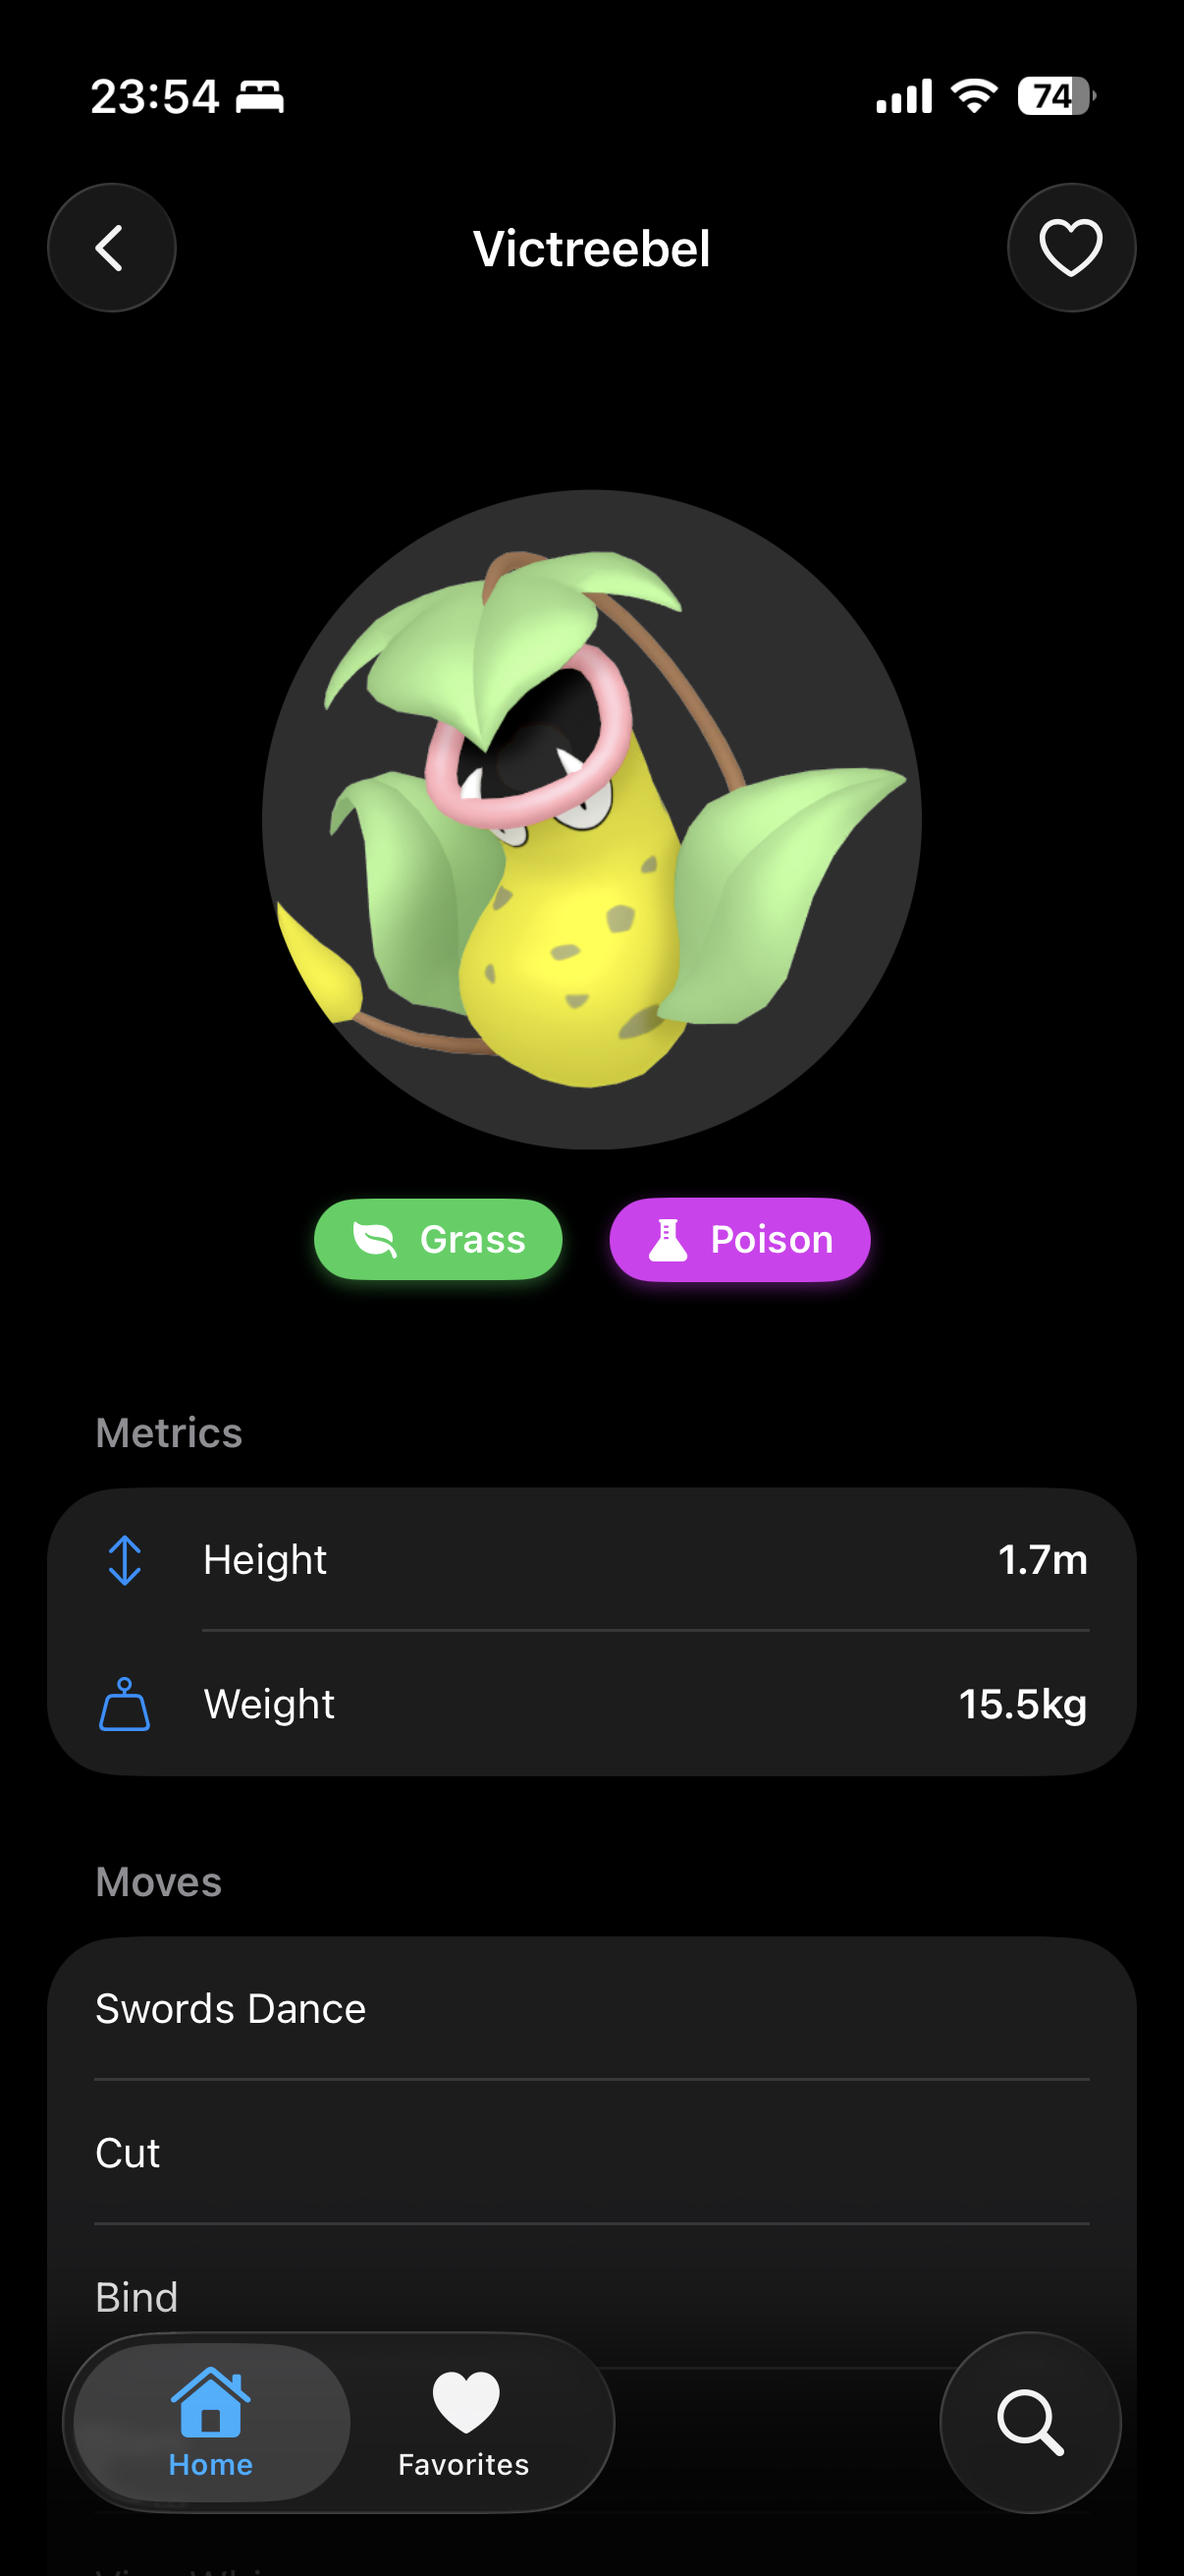
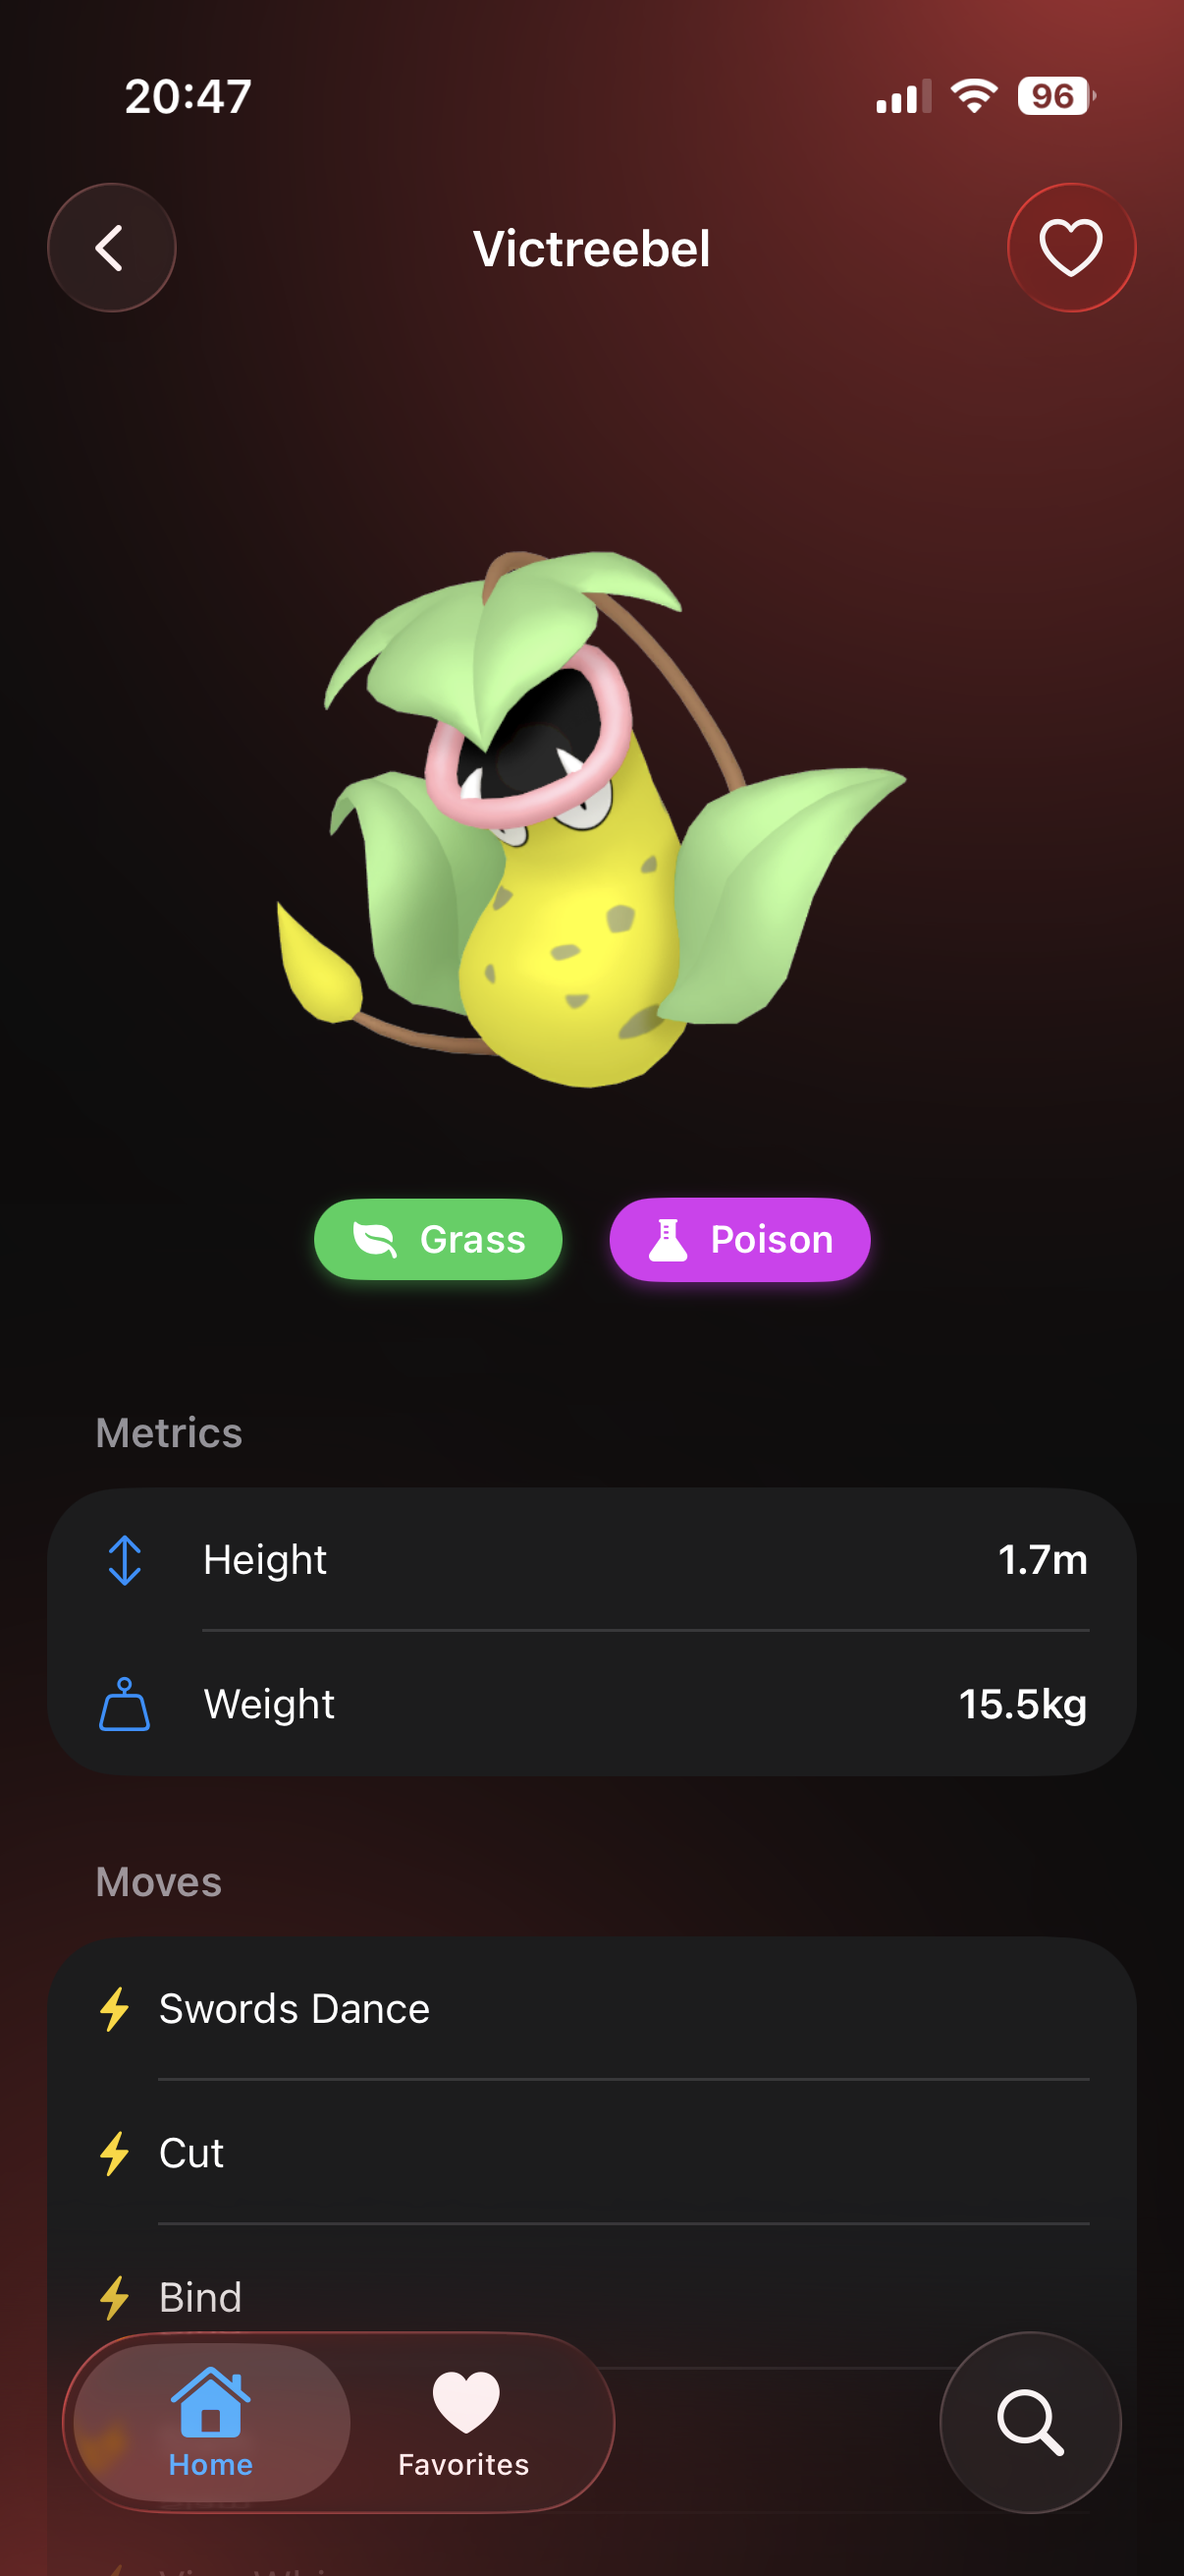
feat: add new view modifiers for list cell properties and pokedex background; enhance UI in various screens

diff --git a/PokeBase/Utils/View+PokedexBackground.swift b/PokeBase/Utils/View+PokedexBackground.swift
@@ -1,0 +1,61 @@
+//
+//  View+PokedexBackground.swift
+//  PokeBase
+//
+//  Created by Filipe Fernandes on 01/06/26.
+//
+
+import Foundation
+import SwiftUI
+
+struct PokedexBackgroundModifier: ViewModifier {
+    @Environment(\.colorScheme) var colorScheme
+    
+    func body(content: Content) -> some View {
+        ZStack {
+            (colorScheme == .dark ? Color(white: 0.05) : Color(white: 0.98))
+                .ignoresSafeArea()
+            
+            GeometryReader { geometry in
+                let side = geometry.size.width
+                
+                ZStack {
+                    Circle()
+                        .fill(RadialGradient(gradient: Gradient(colors: [Color.red.opacity(colorScheme == .dark ? 0.7 : 0.9), Color.red.opacity(0.2), .clear]), center: .center, startRadius: 0, endRadius: side * 0.4))
+                        .frame(width: side * 1.1, height: side * 1.1)
+                        .position(x: side * 0.95, y: geometry.size.height * -0.05)
+                        .blur(radius: 35)
+                    
+                    Circle()
+                        .fill(RadialGradient(gradient: Gradient(colors: [Color.red.opacity(colorScheme == .dark ? 0.5 : 0.8), .clear]), center: .center, startRadius: 0, endRadius: side * 0.9))
+                        .frame(width: side * 1.8, height: side * 1.8)
+                        .position(x: side * 0.85, y: geometry.size.height * 0.05)
+                        .blur(radius: 80)
+                }
+                
+                ZStack {
+                    Circle()
+                        .fill(RadialGradient(gradient: Gradient(colors: [Color.red.opacity(colorScheme == .dark ? 0.6 : 0.8), Color.red.opacity(0.1), .clear]), center: .center, startRadius: 0, endRadius: side * 0.35))
+                        .frame(width: side * 1.0, height: side * 1.0)
+                        .position(x: side * 0.05, y: geometry.size.height * 1.05)
+                        .blur(radius: 40)
+                    
+                    Circle()
+                        .fill(RadialGradient(gradient: Gradient(colors: [Color.red.opacity(colorScheme == .dark ? 0.4 : 0.7), .clear]), center: .center, startRadius: 0, endRadius: side * 0.8))
+                        .frame(width: side * 1.6, height: side * 1.6)
+                        .position(x: side * 0.15, y: geometry.size.height * 0.95)
+                        .blur(radius: 90)
+                }
+            }
+            .ignoresSafeArea()
+            
+            content
+        }
+    }
+}
+
+extension View {
+    func pokedexBackground() -> some View {
+        self.modifier(PokedexBackgroundModifier())
+    }
+}

diff --git a/PokeBase/Views/Screens/PokemonListView.swift b/PokeBase/Views/Screens/PokemonListView.swift
@@ -11,6 +11,8 @@ struct PokemonListView: View {
     @Environment(PokemonStore.self) private var store
     @Environment(FavoritesService.self) private var favoritesService
     
+    @Namespace private var animationSpace
+    
     var body: some View {
         NavigationStack {
             Group {
@@ -38,6 +40,8 @@ struct PokemonListView: View {
                             NavigationLink(value: pokemon) {
                                 PokemonCellView(pokemon: pokemon)
                             }
+                            .listCellProps()
+                            .matchedTransitionSource(id: pokemon.id, in: animationSpace)
                             .swipeActions(edge: .leading, allowsFullSwipe: true) {
                                 let isFavorite = favoritesService.isFavorite(id: pokemon.id)
                                 
@@ -55,12 +59,20 @@ struct PokemonListView: View {
                             }
                         }
                     }
+                    .listStyle(.plain)
+                    .scrollContentBackground(.hidden)
+                    .background(Color.clear)
+                    .refreshable {
+                        await store.fetchAllPokemon()
+                    }
                 }
             }
+            .pokedexBackground()
             .navigationTitle("Pokémons")
             .navigationDestination(for: Pokemon.self) { selectedPokemon in
                 PokemonDetailView(pokemon: selectedPokemon)
                     .id(selectedPokemon.id)
+                    .navigationTransition(.zoom(sourceID: selectedPokemon.id, in: animationSpace))
             }
             .task {
                 await store.fetchAllPokemon()

diff --git a/PokeBase/Views/Screens/PokemonSearchView.swift b/PokeBase/Views/Screens/PokemonSearchView.swift
@@ -12,6 +12,8 @@ struct PokemonSearchView: View {
     @Environment(FavoritesService.self) private var favoritesService
     @State private var viewModel = PokemonSearchViewModel()
     
+    @Namespace private var animationSpace
+    
     var body: some View {
         NavigationStack {
         Group {
@@ -37,10 +39,12 @@ struct PokemonSearchView: View {
                 renderSuccess()
             }
         }
+        .pokedexBackground()
         .navigationTitle("Search Pokémons")
         .navigationDestination(for: Pokemon.self) { pokemon in
             PokemonDetailView(pokemon: pokemon)
                 .id(pokemon.id)
+                .navigationTransition(.zoom(sourceID: pokemon.id, in: animationSpace))
         }
         .animation(.default, value: viewModel.searchResults)
         .animation(.default, value: viewModel.searchText.isEmpty)
@@ -66,6 +70,8 @@ struct PokemonSearchView: View {
                     NavigationLink(value: pokemon) {
                         PokemonCellView(pokemon: pokemon)
                     }
+                    .listCellProps()
+                    .matchedTransitionSource(id: pokemon.id, in: animationSpace)
                     .swipeActions(edge: .leading, allowsFullSwipe: true) {
                         let isFavorite = favoritesService.isFavorite(id: pokemon.id)
                         
@@ -82,6 +88,9 @@ struct PokemonSearchView: View {
                         .tint(isFavorite ? .red : .orange)
                     }
                 }
+                .listStyle(.plain)
+                .scrollContentBackground(.hidden)
+                .background(Color.clear)
             }
         }
     }

diff --git a/PokeBase/Views/Screens/FavoritePokemonListView.swift b/PokeBase/Views/Screens/FavoritePokemonListView.swift
@@ -12,6 +12,8 @@ struct FavoritePokemonListView: View {
     @Environment(FavoritesService.self) private var favoritesService
     @Environment(NavigationManager.self) private var navManager
     
+    @Namespace private var animationSpace
+    
     @State private var selection = Set<Int>()
     @State private var editingMode = EditMode.inactive
     
@@ -41,15 +43,22 @@ struct FavoritePokemonListView: View {
                             NavigationLink(value: pokemon) {
                                 PokemonCellView(pokemon: pokemon)
                             }
+                            .listCellProps()
+                            .matchedTransitionSource(id: pokemon.id, in: animationSpace)
                         }
                         .onDelete(perform: favoritesService.removeFavorites)
                     }
-                    
+                    .listStyle(.plain)
+                    .scrollContentBackground(.hidden)
+                    .background(.clear)
                 }
             }
+            .pokedexBackground()
             .navigationTitle("Favorites")
             .navigationDestination(for: Pokemon.self) { pokemon in
                 PokemonDetailView(pokemon: pokemon)
+                    .id(pokemon.id)
+                    .navigationTransition(.zoom(sourceID: pokemon.id, in: animationSpace))
             }
             .toolbar {
                 ToolbarItem(placement: .topBarTrailing) {

diff --git a/PokeBase/Utils/View+ListCellProps.swift b/PokeBase/Utils/View+ListCellProps.swift
@@ -1,0 +1,26 @@
+//
+//  View+ListCellProps.swift
+//  PokeBase
+//
+//  Created by Filipe Fernandes on 01/06/26.
+//
+
+import Foundation
+import SwiftUI
+
+struct ListCellPropsModifier: ViewModifier {
+    func body(content: Content) -> some View {
+        content
+            .padding()
+            .glassEffect(.regular, in: .rect(cornerRadius: 20))
+            .listRowBackground(Color.clear)
+            .listRowSeparator(.hidden)
+            .listRowInsets(EdgeInsets(top: 0, leading: 12, bottom: 12, trailing: 12))
+    }
+}
+
+extension View {
+    func listCellProps() -> some View {
+        self.modifier(ListCellPropsModifier())
+    }
+}

diff --git a/PokeBase/Views/Screens/PokemonDetailView.swift b/PokeBase/Views/Screens/PokemonDetailView.swift
@@ -40,6 +40,7 @@ struct PokemonDetailView: View {
                     }
             }
         }
+        .pokedexBackground()
         .navigationTitle(pokemon.displayName)
         .navigationBarTitleDisplayMode(.inline)
         .task(id: pokemon.id) {
@@ -77,6 +78,8 @@ struct PokemonDetailView: View {
                 }
             }
         }
+        .scrollContentBackground(.hidden)
+        .background(Color.clear)
     }
 }
 

diff --git a/PokeBase/Utils/Preview+Extensions.swift b/PokeBase/Utils/Preview+Extensions.swift
@@ -20,6 +20,10 @@ extension View {
             container.mainContext.insert(favoriteEntity)
         }
         
+        let charmander = Pokemon.mockList[1]
+        let favoriteEntity = FavoritePokemon.create(from: charmander)!
+        container.mainContext.insert(favoriteEntity)
+        
         let previewStore = PokemonStore()
         previewStore.allPokemons = Pokemon.mockList
         

diff --git a/PokeBase/Views/Components/PokemonMovesView.swift b/PokeBase/Views/Components/PokemonMovesView.swift
@@ -12,7 +12,11 @@ struct PokemonMovesView: View {
     
     var body: some View {
         ForEach(moves, id: \.self) { moveName in
-            Text(moveName)
+            HStack(spacing: 8) {
+                Image(systemName: "bolt.fill")
+                    .foregroundStyle(.yellow)
+                Text(moveName)
+            }
         }
     }
 }

diff --git a/PokeBase/Views/Components/AvatarImageView.swift b/PokeBase/Views/Components/AvatarImageView.swift
@@ -44,8 +44,6 @@ struct AvatarImageView: View {
             }
         }
         .frame(width: size, height: size)
-        .background(.quaternary)
-        .clipShape(Circle())
     }
 }
 
